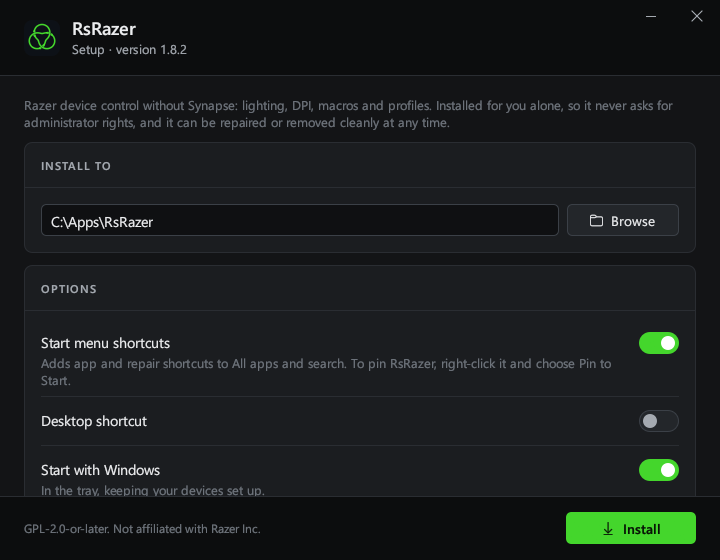
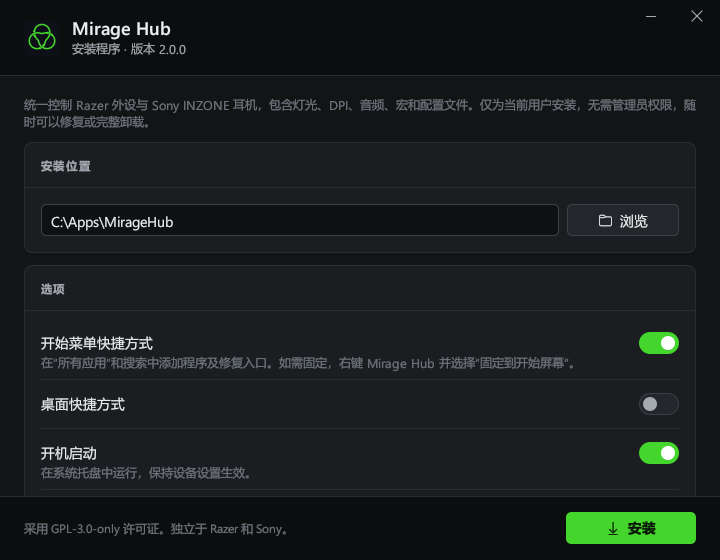
Keep legacy installation detection in the Mirage Hub upgrade flow

diff --git a/docs/i18n.js b/docs/i18n.js
@@ -83,7 +83,7 @@
     krakenLimitation: '<strong>读取 Kraken 耳机的当前状态</strong>：Linux 内核从设备主动发送的 HID 输入报告中收集状态；本后台服务改为从本地持久化文件提供这些值。设置灯效功能可正常使用。',
     credits: 'Razer 协议知识源自 <a href="https://github.com/openrazer/openrazer">OpenRazer</a>，凝聚了 Terri Cain、Tim Theede 和众多贡献者的成果。Sony INZONE 支持移植自 penguinwokrs 的 <a href="https://github.com/penguinwokrs/openinzone">OpenInzone</a>。',
     license: '合并后的项目使用 GPL-3.0-only。OpenRazer 部分保留 GPL-2.0-or-later 声明，INZONE 移植部分保留 OpenInzone 的 GPL-3.0-only 声明。',
-    trademarks: '本项目与 Razer Inc. 无隶属关系，也未获其认可。Razer、Chroma 和 Synapse 均为 Razer Inc. 的商标。',
+    trademarks: '本项目与 Razer 或 Sony 无隶属关系，也未获其认可。产品名称及商标属于各自所有者。',
     loading: '正在加载…', noMatches: '没有符合搜索条件的设备。',
     loadError: '无法加载设备列表。请查看', repository: '项目仓库',
     countAll: '{total} 款设备', countFiltered: '显示 {shown} 款，共 {total} 款设备',

diff --git a/docs/index.html b/docs/index.html
@@ -589,8 +589,8 @@ footer p { margin: 0 0 8px; }
       The combined project is GPL-3.0-only. OpenRazer portions retain their GPL-2.0-or-later notices; the INZONE port retains OpenInzone’s GPL-3.0-only notices.
     </p>
     <p data-i18n="trademarks">
-      Not affiliated with or endorsed by Razer Inc. Razer, Chroma and Synapse are trademarks of
-      Razer Inc.
+      Not affiliated with or endorsed by Razer or Sony. Product names and trademarks belong to
+      their respective owners.
     </p>
   </div>
 </footer>

diff --git a/studio/setup/src/ui.rs b/studio/setup/src/ui.rs
@@ -77,7 +77,7 @@ pub fn run(args: Args) -> eframe::Result<()> {
         // Documentation captures use their explicit demo directory, not the
         // current user's installation from the registry.
         let installed = if std::env::var_os("OPENRAZER_SETUP_CAPTURE").is_some() { None } else {
-            args.dir.clone().filter(|_| args.from_temp).map(|dir| Installed { version: install::Manifest::read(&dir).map(|m| m.version).unwrap_or_default(), dir }).or_else(install::installed)
+            args.dir.clone().filter(|_| args.from_temp).map(|dir| Installed { version: install::Manifest::read(&dir).map(|m| m.version).unwrap_or_default(), dir }).or_else(install::installed).or_else(install::legacy_installed)
         };
         let dir = installed.as_ref().map(|i| i.dir.clone()).or(args.dir.clone()).unwrap_or_else(mirage_hub_core::paths::default_install_dir);
         let saved = installed.as_ref().and_then(|i| install::Manifest::read(&i.dir)).map(|m| m.options);

diff --git a/studio/core/src/install.rs b/studio/core/src/install.rs
@@ -90,7 +90,7 @@ fn hkcu() -> winreg::RegKey {
 
 /// The installation recorded in Apps & features, if any.
 pub fn installed() -> Option<Installed> {
-    installed_at(UNINSTALL_KEY).or_else(legacy_installed)
+    installed_at(UNINSTALL_KEY)
 }
 
 pub fn legacy_installed() -> Option<Installed> { installed_at(LEGACY_UNINSTALL_KEY) }

diff --git a/studio/setup/src/ops.rs b/studio/setup/src/ops.rs
@@ -412,7 +412,7 @@ pub fn target_dir(explicit: Option<PathBuf>) -> Option<PathBuf> {
     if here.join(MANIFEST).exists() && here.join(APP_EXE).exists() {
         return Some(here);
     }
-    install::installed().map(|i| i.dir)
+    install::installed().or_else(install::legacy_installed).map(|i| i.dir)
 }
 
 #[cfg(test)]
